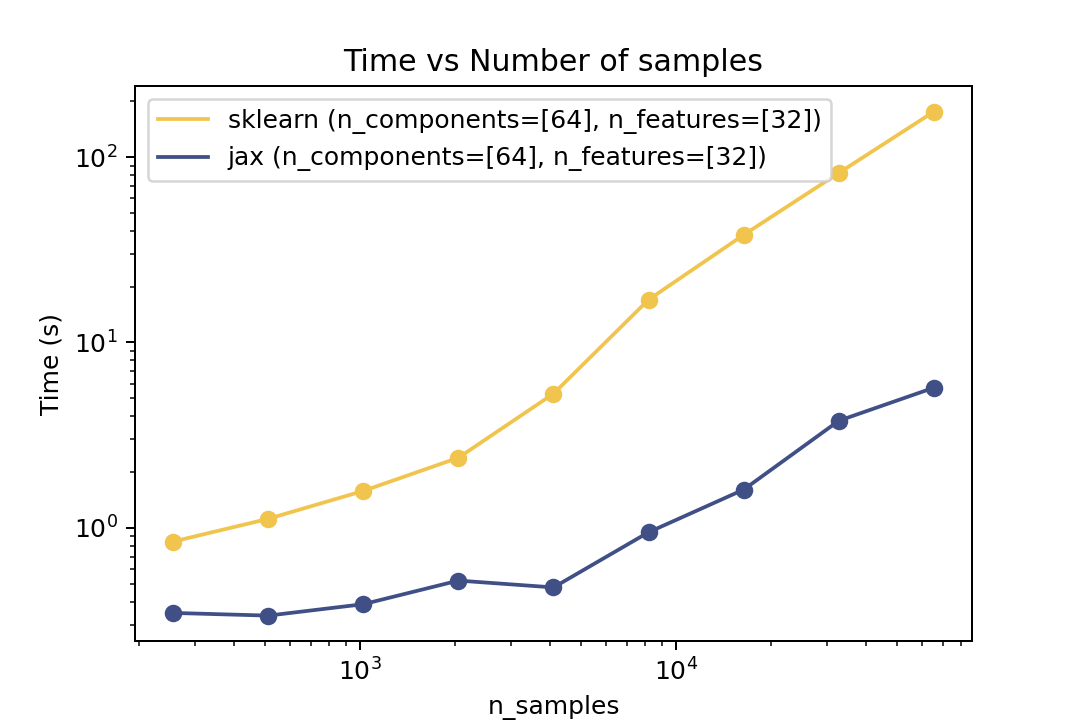
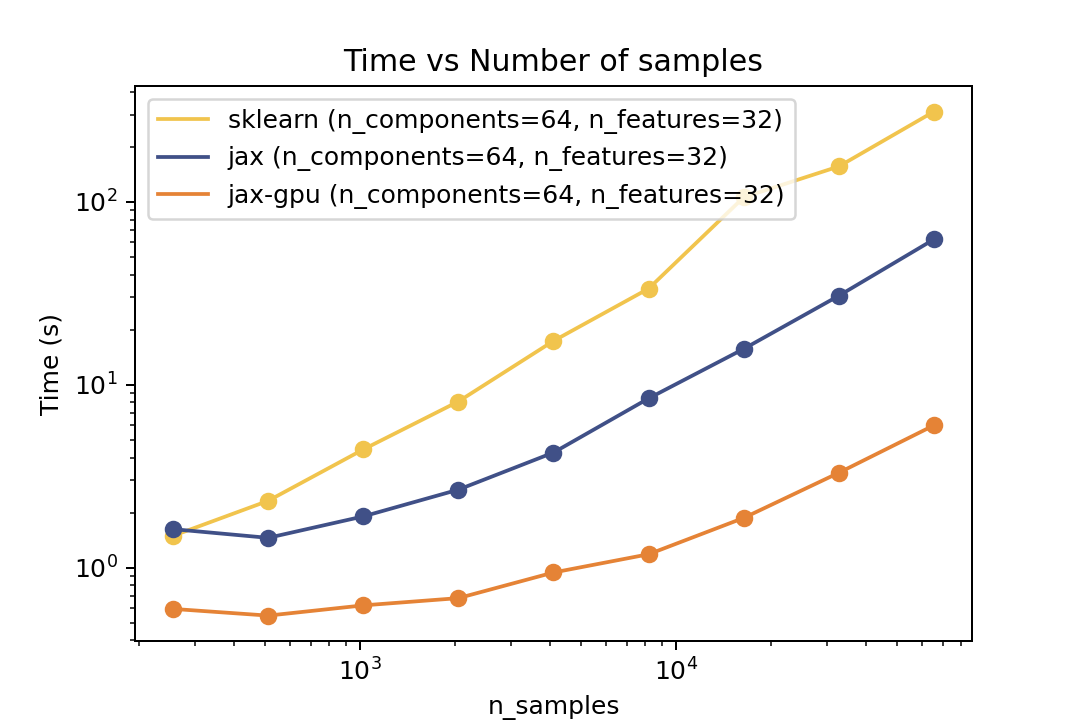
Update benchmarks

diff --git a/README.md b/README.md
@@ -61,7 +61,7 @@ Speed up the training of O(10^6) patches was the main motivation for `gmmx`.
 
 ## Benchmarks
 
-Here are some results from the benchmarks in the [examples/benchmarks](https://github.com/adonath/gmmx/tree/main/examples/benchmarks) folder comparing against Scikit-Learn. The benchmarks were run on a 2021 MacBook Pro with an M1 Pro chip.
+Here are some results from the benchmarks in the [examples/benchmarks](https://github.com/adonath/gmmx/tree/main/examples/benchmarks) folder comparing against Scikit-Learn. The benchmarks were run on an "Intel(R) Xeon(R) Gold 6338" CPU and a single "NVIDIA L40S" GPU.
 
 ### Prediction
 
@@ -69,7 +69,7 @@ Here are some results from the benchmarks in the [examples/benchmarks](https://g
 | ----------------------------------------------------------------------------------------------------------------------------------- | ----------------------------------------------------------------------------------------------------------------------------- | ------------------------------------------------------------------------------------------------------------------------------- |
 | ![Time vs. Number of Components](https://raw.githubusercontent.com/adonath/gmmx/main/docs/_static/time-vs-n-components-predict.png) | ![Time vs. Number of Samples](https://raw.githubusercontent.com/adonath/gmmx/main/docs/_static/time-vs-n-samples-predict.png) | ![Time vs. Number of Features](https://raw.githubusercontent.com/adonath/gmmx/main/docs/_static/time-vs-n-features-predict.png) |
 
-For prediction the speedup is around 2x for varying number of components and features. For the number of samples the cross-over point is around O(10^4) samples.
+For prediction the speedup is around 2-3x for varying number of components and features. For the number of samples the cross-over point is around O(10^4) samples.
 
 ### Training Time
 
@@ -77,4 +77,4 @@ For prediction the speedup is around 2x for varying number of components and fea
 | ------------------------------------------------------------------------------------------------------------------------------- | ------------------------------------------------------------------------------------------------------------------------- | --------------------------------------------------------------------------------------------------------------------------- |
 | ![Time vs. Number of Components](https://raw.githubusercontent.com/adonath/gmmx/main/docs/_static/time-vs-n-components-fit.png) | ![Time vs. Number of Samples](https://raw.githubusercontent.com/adonath/gmmx/main/docs/_static/time-vs-n-samples-fit.png) | ![Time vs. Number of Features](https://raw.githubusercontent.com/adonath/gmmx/main/docs/_static/time-vs-n-features-fit.png) |
 
-For training the speedup is around 10x on the same architecture. However there is no guarantee that it will converge to the same solution as Scikit-Learn. But there are some tests in the `tests` folder that compare the results of the two implementations.
+For training the speedup is around >10x on the same architecture and close to 100x speedup on the GPU. However there is no guarantee that it will converge to the same solution as Scikit-Learn. But there are some tests in the `tests` folder that compare the results of the two implementations which shows good agreement.
